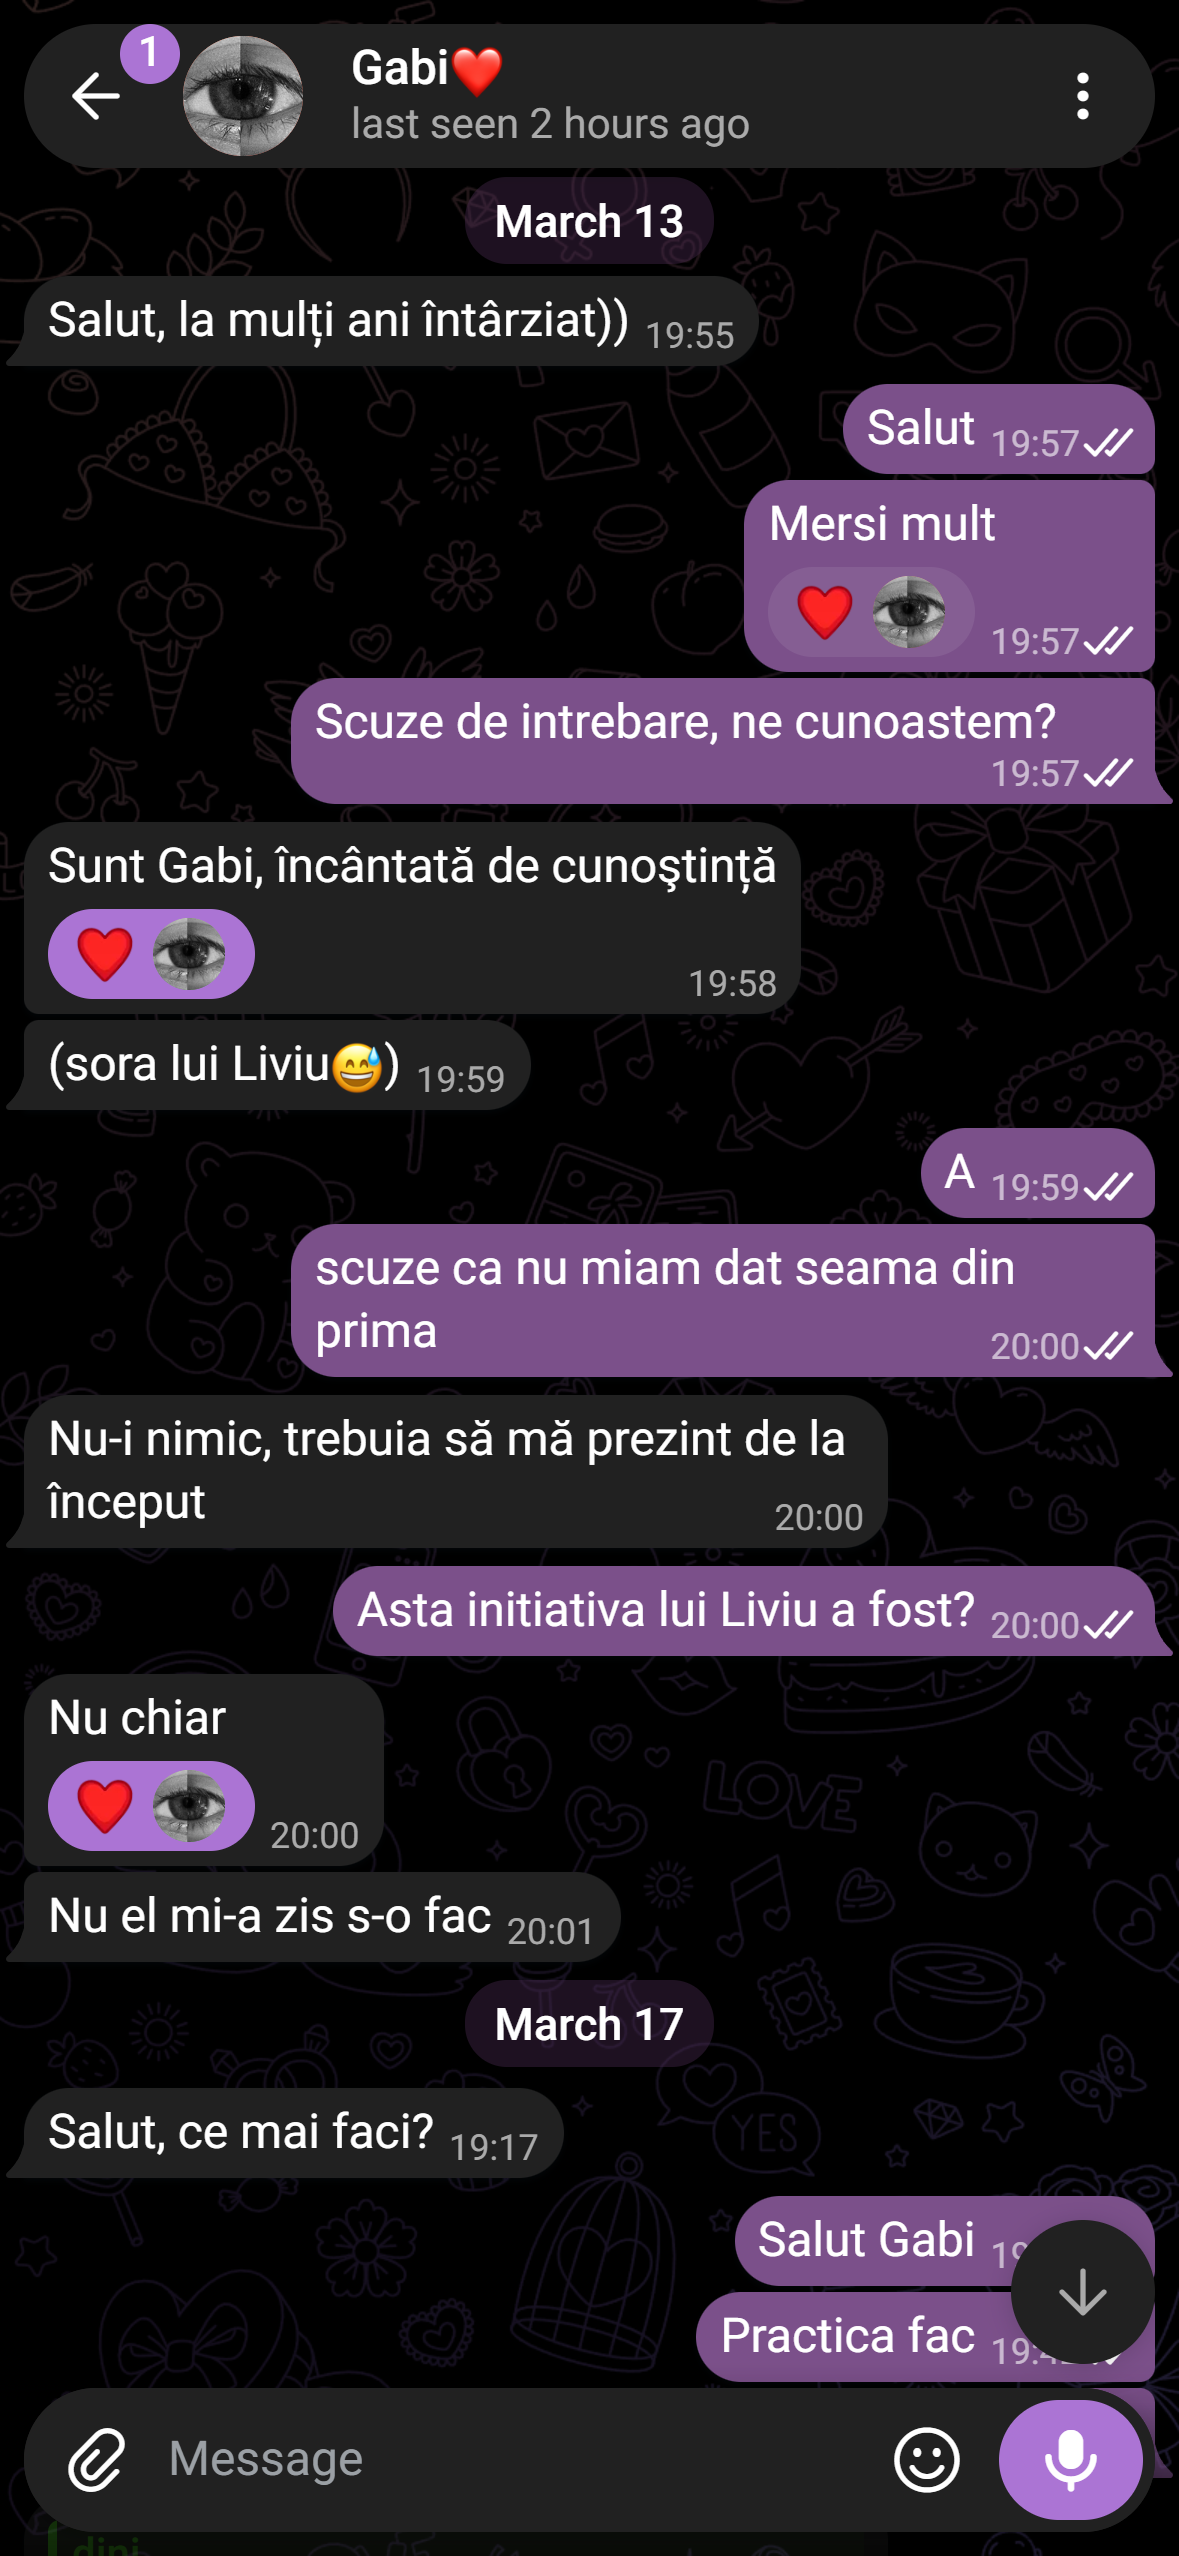
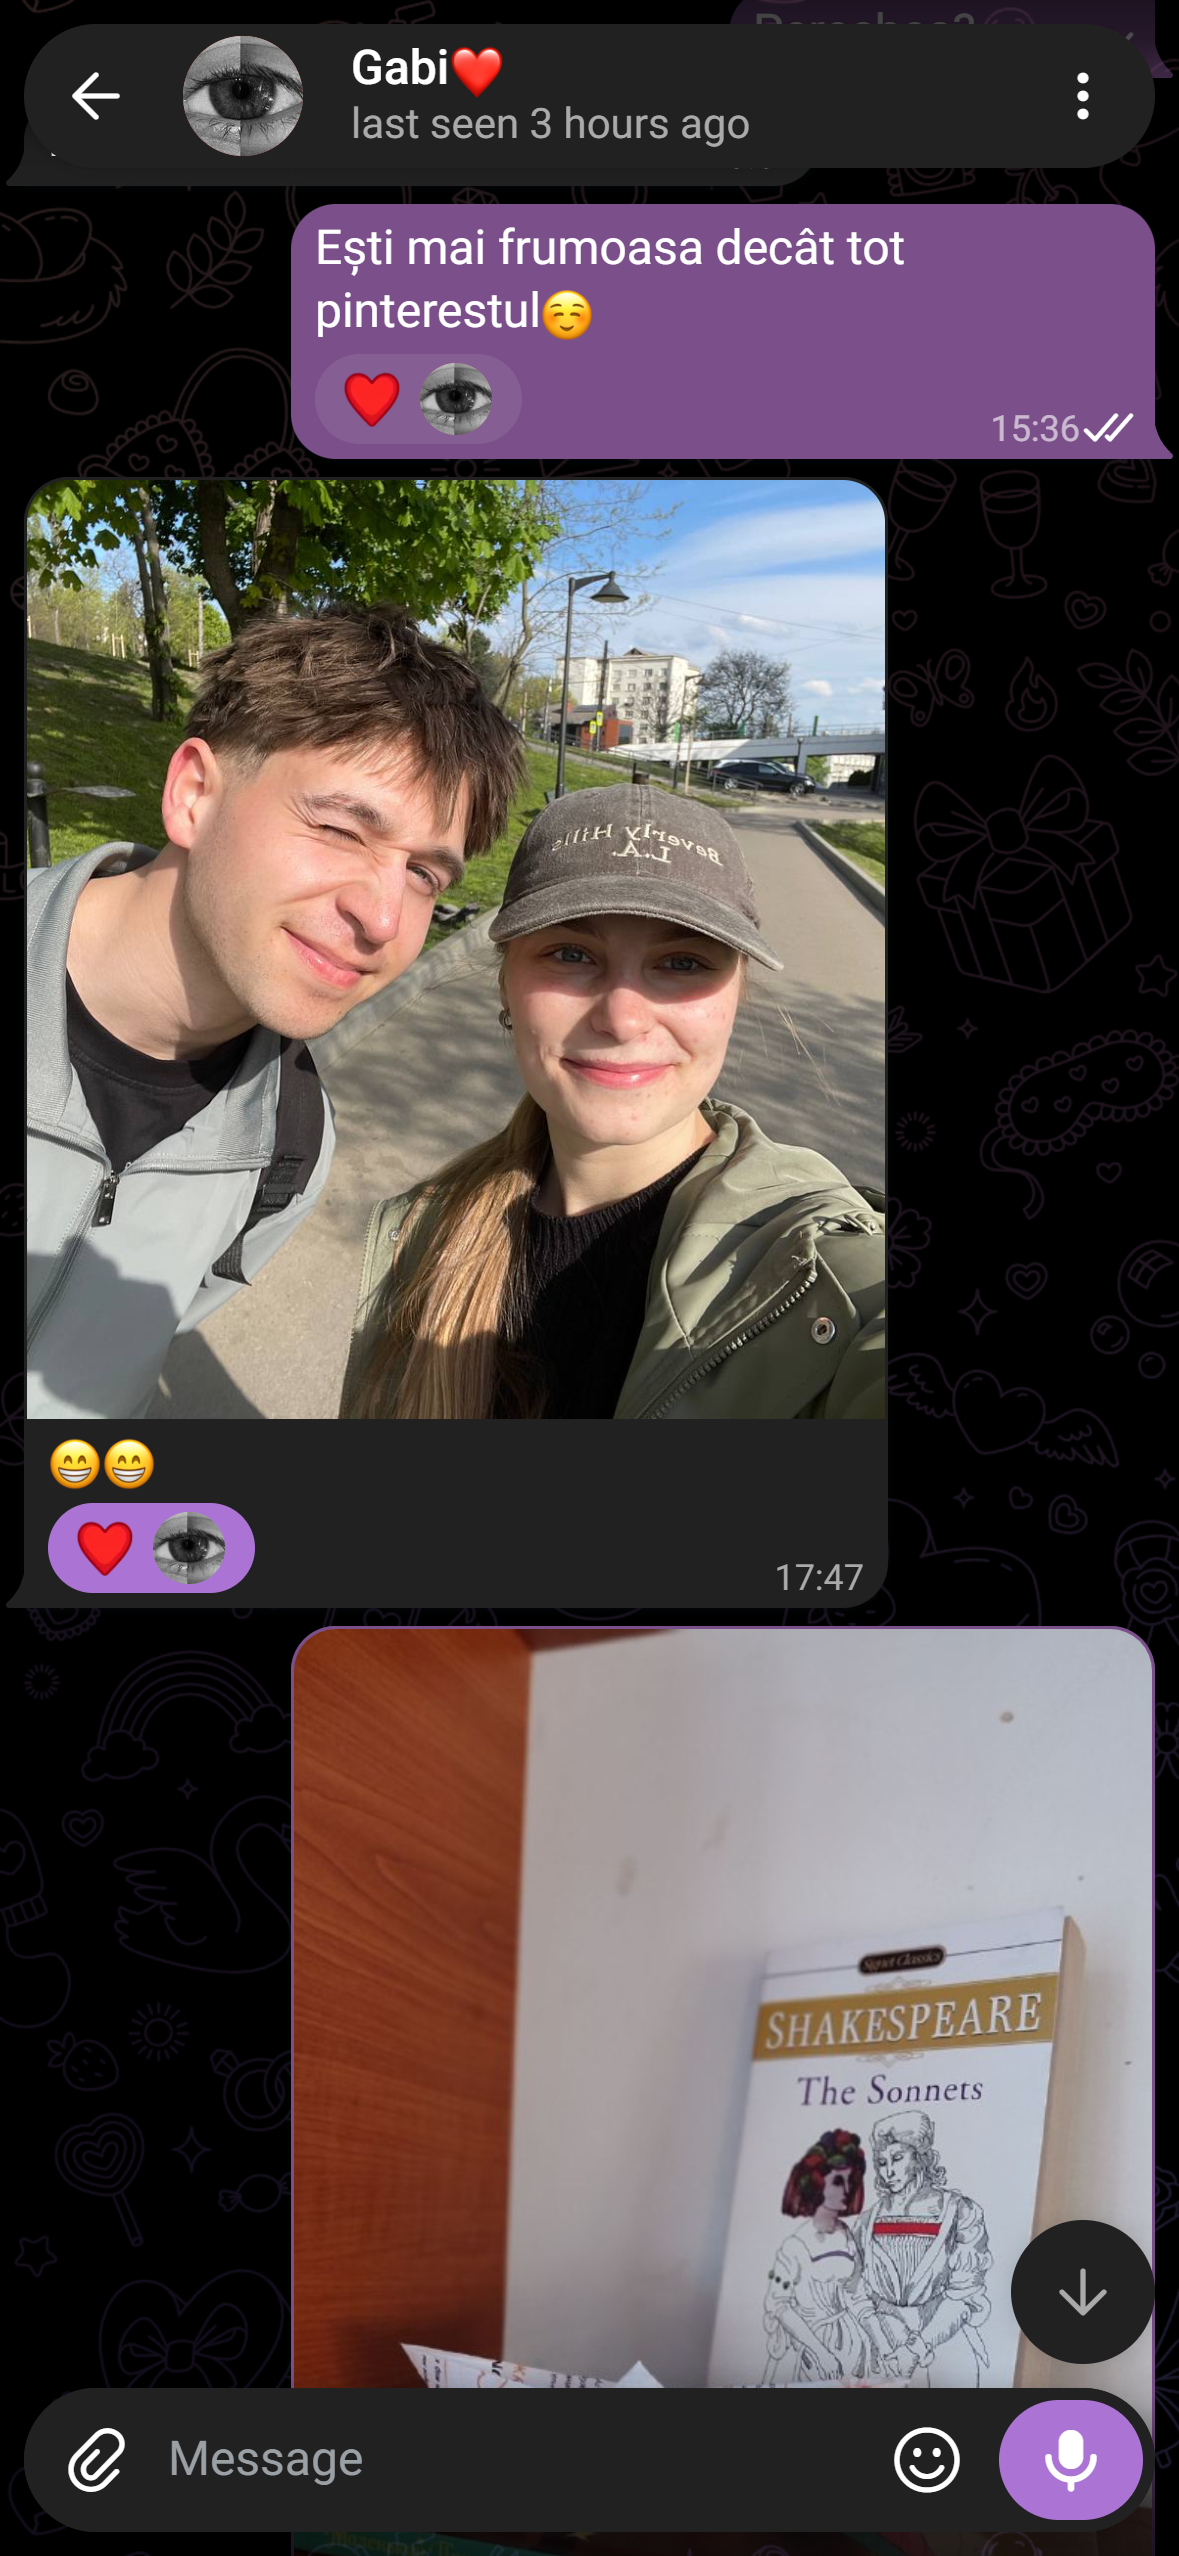
Update first date memory to April 28

diff --git a/public/index.html b/public/index.html
@@ -54,11 +54,11 @@
   <div class="spring-cat" aria-hidden="true"><img src="images/cat2.png" alt="" loading="lazy"><span>♡</span></div>
   <div class="memory-copy">
     <div class="memory-copy-inner">
-      <p class="memory-date">13 MARTIE · ÎNCEPUTUL NOSTRU</p>
+      <p class="memory-date">28 APRILIE · PRIMA INVITAȚIE</p>
       <div class="memory-title-reveal memory-reveal-target">
-        <h2 id="memory-title">Totul a început cu<br><em>o felicitare întârziată.</em></h2>
+        <h2 id="memory-title">Prima dată când<br><em>ți-am propus să ne întâlnim.</em></h2>
       </div>
-      <p class="memory-description">Un „la mulți ani” venit puțin mai târziu.<br>Și tu, venită exact când trebuia.</p>
+      <p class="memory-description">Pe 28 aprilie am prins curajul să te invit.<br>Un mesaj simplu, care avea să însemne atât de mult.</p>
       <span class="memory-text-heart" aria-hidden="true">♡</span>
     </div>
   </div>
@@ -69,9 +69,9 @@
     <span class="photo-heart photo-heart-one" aria-hidden="true">♡</span>
     <span class="photo-heart photo-heart-two" aria-hidden="true">♡</span>
     <button class="memory-image-link" type="button" aria-haspopup="dialog" aria-label="Mărește fotografia cu primele noastre mesaje">
-      <img src="images/2.png" width="1179" height="2556" alt="Conversația din 13 martie care a început cu o felicitare întârziată de ziua de naștere" loading="lazy" decoding="async">
+      <img src="images/2.png?v=20260926-2" width="1179" height="2556" alt="Conversația din 28 aprilie, când i-am propus pentru prima dată să ne întâlnim" loading="lazy" decoding="async">
     </button>
-    <figcaption>puțin mai târziu. exact la timp. <span aria-hidden="true">♡</span></figcaption>
+    <figcaption>prima invitație. începutul unei povești. <span aria-hidden="true">♡</span></figcaption>
   </figure>
   </div>
 </section>
@@ -79,7 +79,7 @@
   <div class="now-chat-copy">
     <p>DE LA PRIMELE CUVINTE, PÂNĂ LA NOI</p>
     <div class="now-title-reveal now-chat-reveal"><h2 id="now-chat-title">Același chat.<br><em>Mult mai multă iubire.</em></h2></div>
-    <span>La început a fost o felicitare întârziată. Acum sunt inimioare, dor și câte un „te iubesc” care face fiecare zi mai frumoasă.</span>
+    <span>La început a fost o invitație simplă. Acum sunt inimioare, dor și câte un „te iubesc” care face fiecare zi mai frumoasă.</span>
     <div class="now-heart-line" aria-hidden="true">♡ <b>♥</b> ♡</div>
   </div>
   <figure class="now-chat-photo now-chat-reveal">
@@ -208,7 +208,7 @@
   <button class="lightbox-close" type="button" aria-label="Închide imaginea mărită" autofocus>✕</button>
   <div class="lightbox-hearts" aria-hidden="true"></div>
   <figure class="lightbox-paper">
-    <img class="lightbox-image" src="images/2.png" width="1179" height="2556" alt="Primele noastre mesaje din 13 martie, începând cu felicitarea întârziată">
+    <img class="lightbox-image" src="images/2.png?v=20260926-2" width="1179" height="2556" alt="Mesajele din 28 aprilie, când i-am propus pentru prima dată să ne întâlnim">
     <figcaption>de aici a început totul. ♡</figcaption>
   </figure>
 </dialog>
